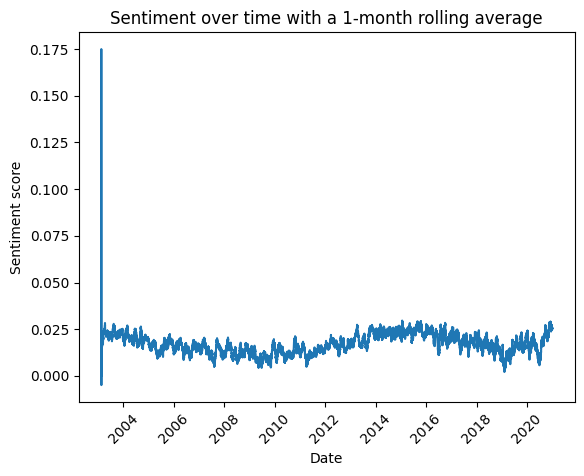
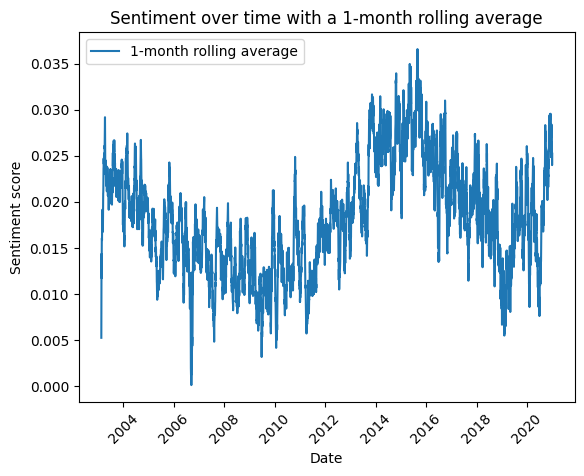
add legends to plots in ass3

diff --git a/assignments/3-sentiment/sentiment_nd.py b/assignments/3-sentiment/sentiment_nd.py
@@ -32,11 +32,18 @@ def smoothed_sentiment_plot(date_window, text_date_window, date_sentiment_data):
     smoothed_data = date_sentiment_data.sort_index().rolling(date_window).mean()
     # create plot with title, xlablels turned 45 degrees, ylabel and smoothed_data
     plt.figure()
+    # plot the data
+    plt.plot(smoothed_data, label = f"{text_date_window} rolling average") 
+    # title of plot
     plt.title(f"Sentiment over time with a {text_date_window} rolling average")
+    # x-axis label
     plt.xlabel("Date")
+    # rotation of x-labels
     plt.xticks(rotation=45)
+    # y-axis label
     plt.ylabel("Sentiment score")
-    plt.plot(smoothed_data) 
+    # add legend
+    plt.legend()
     # save figure as png in output
     plt.savefig(os.path.join("output", f"{text_date_window}_sentiment.png"), bbox_inches='tight')
     
@@ -97,9 +104,12 @@ def main():
         {"sentiment": sentiment_scores}, # sentiment score column
         index = pd.to_datetime(data["publish_date"], format='%Y%m%d', errors='ignore')) # date index
     
+    # calculate average sentiment scores per day
+    daily_sentiment_df = date_sentiment_df.resample('1d').mean()
+    
     # apply smoothed_sentiment_plot function, to create and save plots in output
-    smoothed_sentiment_plot("7d", "1-week", date_sentiment_df) # 1-week average
-    smoothed_sentiment_plot("30d", "1-month", date_sentiment_df) # 1 month average
+    smoothed_sentiment_plot("7d", "1-week", daily_sentiment_df) # 1-week average
+    smoothed_sentiment_plot("30d", "1-month", daily_sentiment_df) # 1 month average
     
     # send message
     print("Done! Csv file and plots are in output directory.\n ")

diff --git a/assignments/3-sentiment/README.md b/assignments/3-sentiment/README.md
@@ -89,4 +89,4 @@ __1-month-average sentiment scores__
 ![](https://github.com/nicole-dwenger/cds-language/blob/main/assignments/3-sentiment/output/1-month_sentiment.png?raw=true)
 
 
-In both plots it seems like the average sentiment scores are over time above 0, meaning positive and rarely negative. As these are newspaper headlines I actually expected a lot of them to be negative. However, considering the textblob method of only looking at adjectives, it might be that a lot of the headlines either contained adjectives that are not in the dictionary or no adjectives at all. However, it might also be that my intuition is wrong, and a lot of the headlines are actually positive. Generally, as expected the 1-week-average plot shows more variation than the 1-month average. Lastly, there is a spike at the beginning in both of the plots, which might be due to the running-mean calculations. 
+In both plots it seems like the average sentiment scores are over time above 0. Especially the 1-month average scores show that overall sentiment scores are between 0.05 and 0.35. Generally, there seems to be some decrease around 2008-2010, and in increase in the sentiment scores around 2014-2016. As expected, the 1-week average plots shows more variation, as scores are between -0.02 and 0.6. However, overall it seems that the headlines are more positive rather than negative (as values are mostly above 0). As these are newspaper headlines I actually expected a lot of them to also be negative. However, considering the textblob method of only looking at adjectives, it might be that a lot of the headlines either contained adjectives that are not in the dictionary or no adjectives at all. Of course, my intuition might also be wrong, and a lot of the headlines are actually positive.
